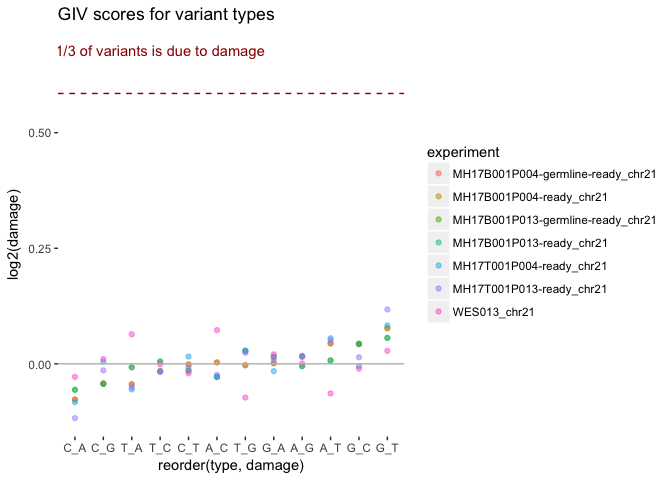
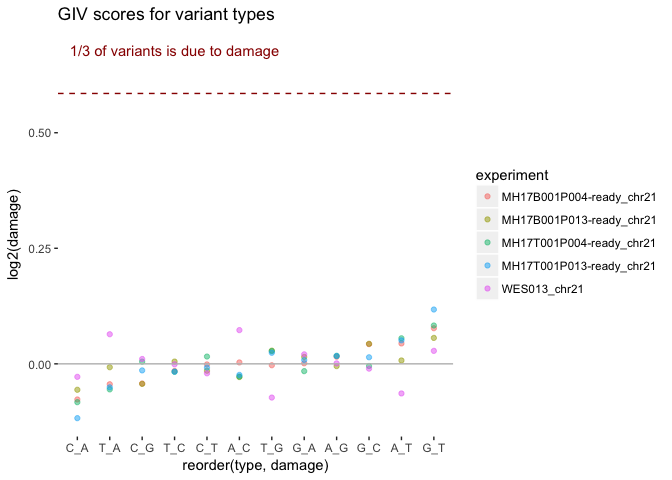
changed facet scales and filtered

diff --git a/report/multi/report.md b/report/multi/report.md
@@ -25,6 +25,7 @@ The BAM files used are:
 | MH17B001P013           | `''` |
 | MH17T001P013           | `''` |
 
+I'll ignore the germline BAMs in the plots.
 
 
 ## Step 1: Subset chr21 from BAM
@@ -102,7 +103,33 @@ Column description:
 type_clean <-c("G_T", "C_A", "C_T", "G_A", "T_A", "A_T",
                "A_G", "T_C", "C_G", "G_C", "T_G", "A_C")
 fnames <- list.files("data", pattern = "basic.damage$", full.names = TRUE)
+fnames
+```
 
+```
+[1] "data/1-MH17B001P004-germline-ready_basic.damage"
+[2] "data/1-MH17B001P004-ready_basic.damage"         
+[3] "data/1-MH17B001P013-germline-ready_basic.damage"
+[4] "data/1-MH17B001P013-ready_basic.damage"         
+[5] "data/1-MH17T001P004-ready_basic.damage"         
+[6] "data/1-MH17T001P013-ready_basic.damage"         
+[7] "data/1-WES013_basic.damage"                     
+```
+
+```r
+fnames <- fnames[!grepl("germline", fnames)]
+fnames
+```
+
+```
+[1] "data/1-MH17B001P004-ready_basic.damage"
+[2] "data/1-MH17B001P013-ready_basic.damage"
+[3] "data/1-MH17T001P004-ready_basic.damage"
+[4] "data/1-MH17T001P013-ready_basic.damage"
+[5] "data/1-WES013_basic.damage"            
+```
+
+```r
 mut_list <- lapply(fnames, function(f) {
   mut <- readr::read_tsv(f,
                          col_names =  c("abs", "type", "experiment", "count", "family", "damage"),
@@ -168,8 +195,32 @@ Column description:
 
 
 ```r
-fnames <- list.files("data", pattern = "loc.damage$", full.names = TRUE)
+(fnames <- list.files("data", pattern = "loc.damage$", full.names = TRUE))
+```
 
+```
+[1] "data/2-MH17B001P004-germline-ready_loc.damage"
+[2] "data/2-MH17B001P004-ready_loc.damage"         
+[3] "data/2-MH17B001P013-germline-ready_loc.damage"
+[4] "data/2-MH17B001P013-ready_loc.damage"         
+[5] "data/2-MH17T001P004-ready_loc.damage"         
+[6] "data/2-MH17T001P013-ready_loc.damage"         
+[7] "data/2-WES013_loc.damage"                     
+```
+
+```r
+(fnames <- fnames[!grepl("germline", fnames)])
+```
+
+```
+[1] "data/2-MH17B001P004-ready_loc.damage"
+[2] "data/2-MH17B001P013-ready_loc.damage"
+[3] "data/2-MH17T001P004-ready_loc.damage"
+[4] "data/2-MH17T001P013-ready_loc.damage"
+[5] "data/2-WES013_loc.damage"            
+```
+
+```r
 mut_list <- lapply(fnames, function(f) {
   mut <- readr::read_tsv(f,
                          col_names = c("experiment", "type", "read", "count", "abs", "loc"),
@@ -180,9 +231,9 @@ mut_list <- lapply(fnames, function(f) {
 mut_all <- dplyr::bind_rows(mut_list)
 
 ggplot(mut_all) +
-  geom_point(aes(x = loc, y = count, colour = experiment), alpha = 1/10) +
+  geom_point(aes(x = loc, y = count, colour = experiment), alpha = 1/6) +
   theme_bw() +
-  facet_grid(type~read, scales = "fixed")
+  facet_grid(type~read, scales = "free_y")
 ```
 
 ![](report_files/figure-html/location_damage-1.png)<!-- -->
@@ -232,8 +283,32 @@ Column description:
 
 
 ```r
-fnames <- list.files("data", pattern = "loc_cont.damage$", full.names = TRUE)
+(fnames <- list.files("data", pattern = "loc_cont.damage$", full.names = TRUE))
+```
 
+```
+[1] "data/3-MH17B001P004-germline-ready_loc_cont.damage"
+[2] "data/3-MH17B001P004-ready_loc_cont.damage"         
+[3] "data/3-MH17B001P013-germline-ready_loc_cont.damage"
+[4] "data/3-MH17B001P013-ready_loc_cont.damage"         
+[5] "data/3-MH17T001P004-ready_loc_cont.damage"         
+[6] "data/3-MH17T001P013-ready_loc_cont.damage"         
+[7] "data/3-WES013_loc_cont.damage"                     
+```
+
+```r
+(fnames <- fnames[!grepl("germline", fnames)])
+```
+
+```
+[1] "data/3-MH17B001P004-ready_loc_cont.damage"
+[2] "data/3-MH17B001P013-ready_loc_cont.damage"
+[3] "data/3-MH17T001P004-ready_loc_cont.damage"
+[4] "data/3-MH17T001P013-ready_loc_cont.damage"
+[5] "data/3-WES013_loc_cont.damage"            
+```
+
+```r
 mut_list <- lapply(fnames, function(f) {
   mut <- readr::read_tsv(f,
                        col_names = c("experiment", "type", "read", "count", "loc", "context", "abs"),
@@ -241,11 +316,30 @@ mut_list <- lapply(fnames, function(f) {
 })
 mut_all <- dplyr::bind_rows(mut_list)
 
+mut_type <- "G_T"
+mut_filt <- mut_all %>% 
+  filter(type == mut_type)
 
-ggplot(mut_all) +
-  geom_point(aes(x = loc, y = count, colour = experiment), alpha = 1/10) +
+ggplot(mut_filt) +
+  geom_point(aes(x = loc, y = count, colour = experiment), alpha = 1/3) +
   theme_bw() +
-  facet_grid(context~read, scales = "free")
+  facet_grid(context~read, scales = "free_y")
 ```
 
 ![](report_files/figure-html/loc_cont_damage-1.png)<!-- -->
+
+
+
+```r
+mut_type <- "C_A"
+mut_filt <- mut_all %>% 
+  filter(type == mut_type)
+
+ggplot(mut_filt) +
+  geom_point(aes(x = loc, y = count, colour = experiment), alpha = 1/3) +
+  theme_bw() +
+  facet_grid(context~read, scales = "free_y")
+```
+
+![](report_files/figure-html/loc_cont_damage2-1.png)<!-- -->
+
